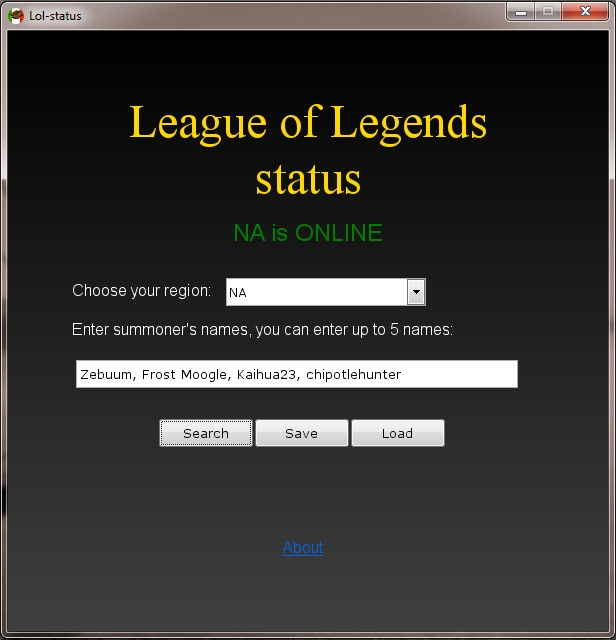
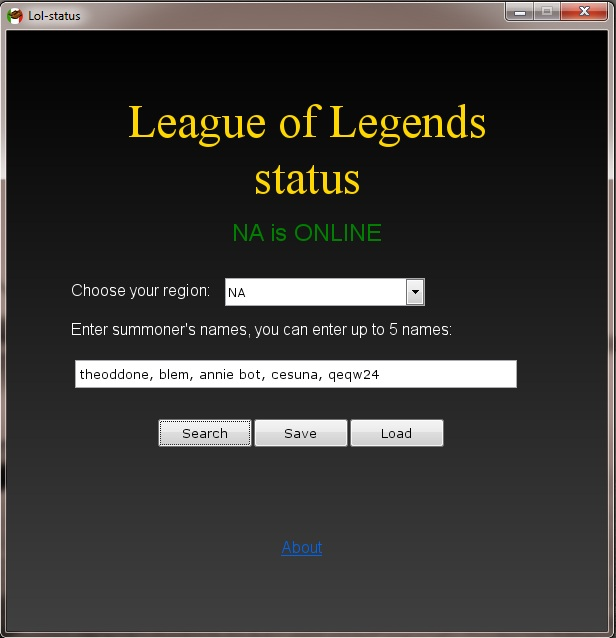
Update README.md, fixed indentation, pictures for v1.1

diff --git a/lib/lol-status.rb b/lib/lol-status.rb
@@ -136,16 +136,15 @@ end
   background ("#000000".."#404040")
   stack width: 600, height: 600, margin: 0.1 do
 
-  	
-  	heading = para "League of Legends status"
-  	heading.style(align: "center", stroke: gold, size: 35, font: "serif")
+  heading = para "League of Legends status"
+  heading.style(align: "center", stroke: gold, size: 35, font: "serif")
     
-    @@status_line = para ""
+  @@status_line = para ""
 
     flow margin_top: 20, width: 600 do
-  	  p = para "Choose your region: "
-  	  p.style(stroke: white)
-  	  list_box items: ["", "NA", "EUW", "EUNE", "LAN", "OCE", "RU"], margin_left: 10 do |list|
+        p = para "Choose your region: "
+        p.style(stroke: white)
+        list_box items: ["", "NA", "EUW", "EUNE", "LAN", "OCE", "RU"], margin_left: 10 do |list|
         @@region = list.text
         debug( "region is #{@@region}")
         unless list.text == ""

diff --git a/README.md b/README.md
@@ -9,7 +9,8 @@ The GUI was built by using [Ruby Shoes](http://shoesrb.com) toolkit.
 ###Features:
 
 * Quick check for server status.
-* Get in game status, get info about champion and game length.
+* Display current patch.
+* Get in game status, view information about champion, game mode and game length.
 * Handsfree: Automatic checking every 3 minutes.
 * Look up summoner profile from ['op.gg'](http://www.op.gg) or current game matchup at ['lolnexus'](http://www.lolnexus.com).
 * Look up up to 5 summoners at a time.
@@ -17,28 +18,32 @@ The GUI was built by using [Ruby Shoes](http://shoesrb.com) toolkit.
 
 ###Download:
 
-* [Mac OS](http://1drv.ms/1EfUqid)
-* [Windows](http://1drv.ms/1EfUvCy)
+* [Mac OS](http://1drv.ms/1DtP3vl)
+* [Windows](http://1drv.ms/1DtPaXM)
 
 *First time installation may take serveral minutes. Require [Shoes](http://shoesrb.com/downloads/) to interpret the package file (fyi).*
 
 *Shoes installation is included in the package, so ya you don't need to do anything, just click and run.*
 
+----
+
 ###Haw tu use dis 101:
 
-* Choose your server everytime before a search. It needs to know which region your account belongs to, cus logic.
+1. Choose your server everytime before a search. It needs to know which region your account belongs to, cus logic.
 
-* Summoner search is case and space insensitive. That means you can freely type anything, no need to worry about spaces and capital letters in the name.
+2. Summoner search is case and space insensitive. That means you can freely type anything, no need to worry about spaces and capital letters in the name.
 
-* Search up to 5 summoners. Well, you can type more than 5 but it will only display 5 lel. Use commas to separate summoners names.
+3. Search up to 5 summoners. Well, you can type more than 5 but it will only display 5 lel. Use commas to separate summoners names.
 
-* It's not freezing! It's LOADING!. Retrieving information from Rito's server takes time, so go grab a snack or something.
+4. It's not freezing! It's LOADING!. Retrieving information from Rito's server takes time, so go grab a snack or something.
 
-* Keep both windows open please! Handsfree needs both to run.
+5. Keep both windows open please! Handsfree needs both to run.
 
-* Save your summoner names to a local text file for your convenience. The next time you fire up the program, just load in the file, no need to set up region or type in names! 
+6. Save your summoner names to a local text file for your convenience. The next time you fire up the program, just load in the file, no need to set up region or type in names! 
 
-* Boom! sit back and handsfree stalking people ;)
+7. Boom! sit back and enjoy stalking people, because of handsfree no need to use your hands ;)
+
+----
 
 ###Screenshots:
 
@@ -49,6 +54,22 @@ The GUI was built by using [Ruby Shoes](http://shoesrb.com) toolkit.
 ![3](https://github.com/LongPotato/Lol-status/blob/master/pics/p3.jpg)
 
 ![4](https://github.com/LongPotato/Lol-status/blob/master/pics/pic4.jpg)
+
+
+###A little note about the codes:
+
+  This github is where I share my self-learning projects in programming. I want to note that the GUI file for this program, `lol-status` is very messy, and have bad code practices: such as global varibles over uses, repeated codes...
+
+  Ruby Shoes itself has different elements, code blocks that refer to different 'self' objects. Therefore if a variable goes out of scope even if it is initialized, it will be lost. I did not plan ahead to prepare my commandline codes for this issue because I eager to make the GUI to work as soon as possible. The fastest way to approach this problem is to make variables become class variables. Which act as global variables, never change between objects. 
+
+  If you want to get an idea of how this program works. I suggest looking at the [`lol-com.rb`](https://github.com/LongPotato/Lol-status/blob/master/lib/lol-com.rb) file. It's way simpler and emphasizes the main functionalities.
+
+  To run the command line version, with Ruby installed, type:
+
+  ```
+  $ ruby lol-com.rb
+  ```
+
 
 
 
